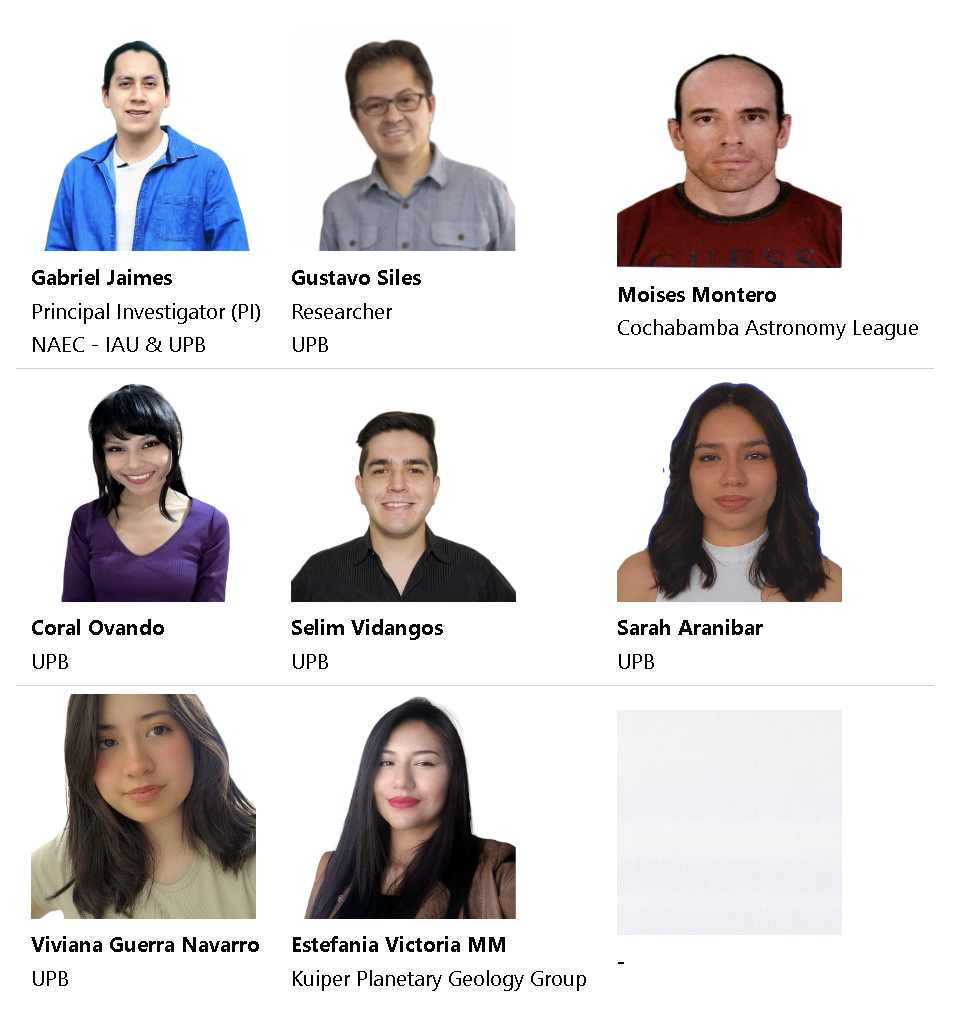
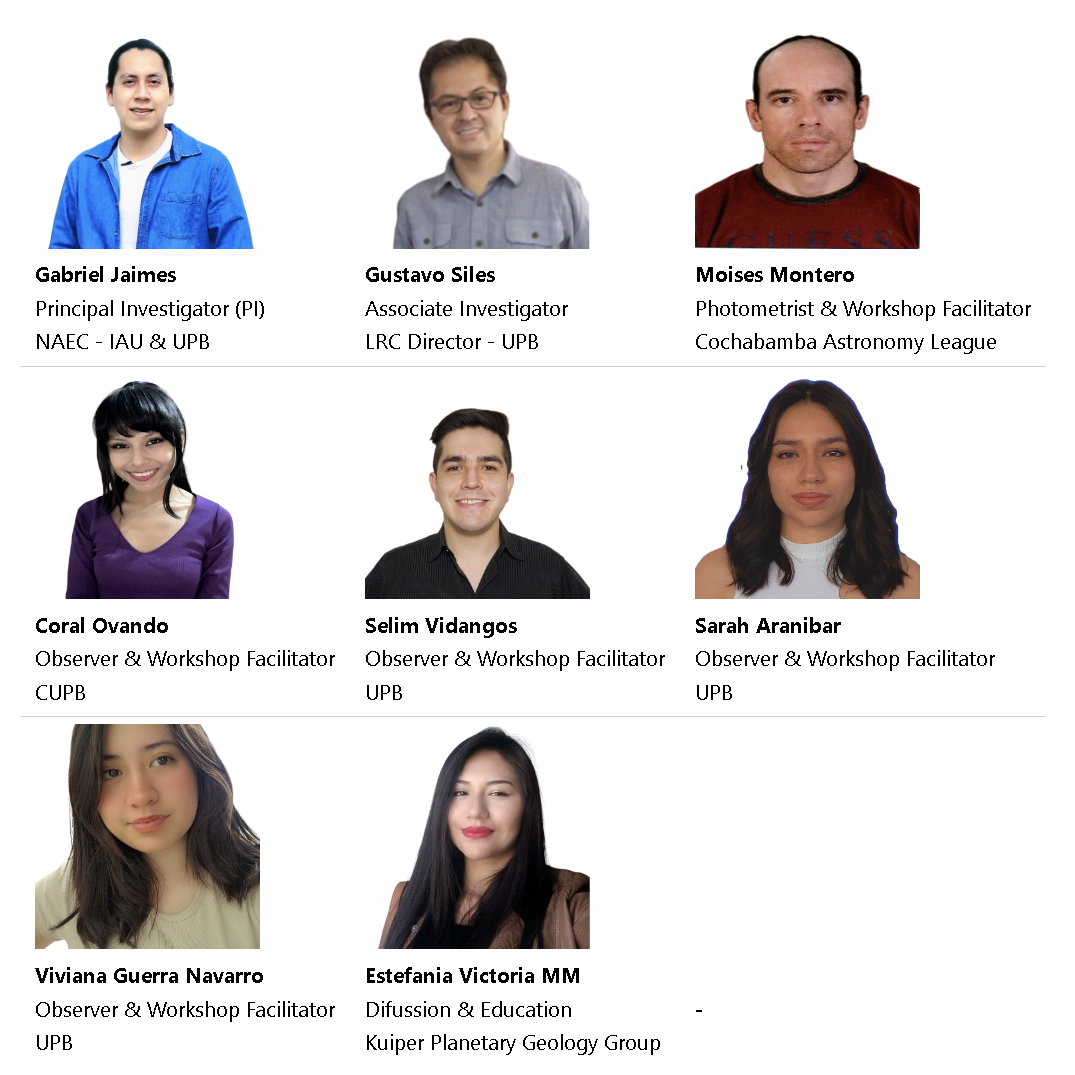
a

Changed region(s): [[0.0303, 0.0305, 0.6061, 0.9773], [0.6364, 0.0305, 0.9697, 0.6719], [0.303, 0.0305, 0.5455, 0.3665]]

diff --git a/docs/4.TheTeam.md b/docs/4.TheTeam.md
@@ -14,18 +14,18 @@ The development team is made up of professionals with experience in the area, gr
 <table>
   <tr>
     <td><img src="im/GJaimes_p.jpg" alt="Gabriel Jaimes" width="150" height="150"/><br><strong>Gabriel Jaimes</strong><br>Principal Investigator (PI)<br>NAEC - IAU & UPB</td>
-    <td><img src="im/GustavoSiles.jpg" alt="Gustavo Siles" width="150" height="150"/><br><strong>Gustavo Siles</strong><br>Researcher<br>UPB</td>
-    <td><img src="im/Moises_Montero.jpg" alt="Moises Montero" width="150" height="150"/><br><strong>Moises Montero</strong><br>Cochabamba Astronomy League</td>
+    <td><img src="im/GustavoSiles.jpg" alt="Gustavo Siles" width="150" height="150"/><br><strong>Gustavo Siles</strong><br>Associate Investigator<br>LRC Director - UPB</td>
+    <td><img src="im/Moises_Montero.jpg" alt="Moises Montero" width="150" height="150"/><br><strong>Moises Montero</strong><br>Photometrist & Workshop Facilitator<br>Cochabamba Astronomy League</td>
   </tr>
   <tr>
-    <td><img src="im/Coral_Ovando.png" alt="Coral Ovando" width="150" height="150"/><br><strong>Coral Ovando</strong><br>UPB</td>
-    <td><img src="im/Selim_Vidangos.jpg" alt="Selim Vidangos" width="150" height="150"/><br><strong>Selim Vidangos</strong><br>UPB</td>
-    <td><img src="im/Sarah_Aranibar.jpg" alt="Sarah Aranibar" width="150" height="150"/><br><strong>Sarah Aranibar</strong><br>UPB</td>
+    <td><img src="im/Coral_Ovando.png" alt="Coral Ovando" width="150" height="150"/><br><strong>Coral Ovando</strong><br>Observer & Workshop Facilitator<br>CUPB</td>
+    <td><img src="im/Selim_Vidangos.jpg" alt="Selim Vidangos" width="150" height="150"/><br><strong>Selim Vidangos</strong><br>Observer & Workshop Facilitator<br>UPB</td>
+    <td><img src="im/Sarah_Aranibar.jpg" alt="Sarah Aranibar" width="150" height="150"/><br><strong>Sarah Aranibar</strong><br>Observer & Workshop Facilitator<br>UPB</td>
   </tr>
   <tr>
-    <td><img src="im/Viviana_Guerra_Navarro.jpg" alt="Viviana Guerra" width="150" height="150"/><br><strong>Viviana Guerra Navarro</strong><br>UPB</td>
-    <td><img src="im/Estefania_Victoria_MM.jpg" alt="Estefania Victoria MM" width="150" height="150"/><br><strong>Estefania Victoria MM</strong><br>Kuiper Planetary Geology Group</td>
-    <td><img src="im/white.jpg" alt="White Space" width="150" height="150"/><br><strong>-</strong></td>
+    <td><img src="im/Viviana_Guerra_Navarro.jpg" alt="Viviana Guerra" width="150" height="150"/><br><strong>Viviana Guerra Navarro</strong><br>Observer & Workshop Facilitator<br>UPB</td>
+    <td><img src="im/Estefania_Victoria_MM.jpg" alt="Estefania Victoria MM" width="150" height="150"/><br><strong>Estefania Victoria MM</strong><br>Difussion & Education<br>Kuiper Planetary Geology Group</td>
+    <td><img src="im/white copy.jpg" alt="White Space" width="150" height="150"/><br><strong>-</strong></td>
   </tr>
 </table>
 -->
